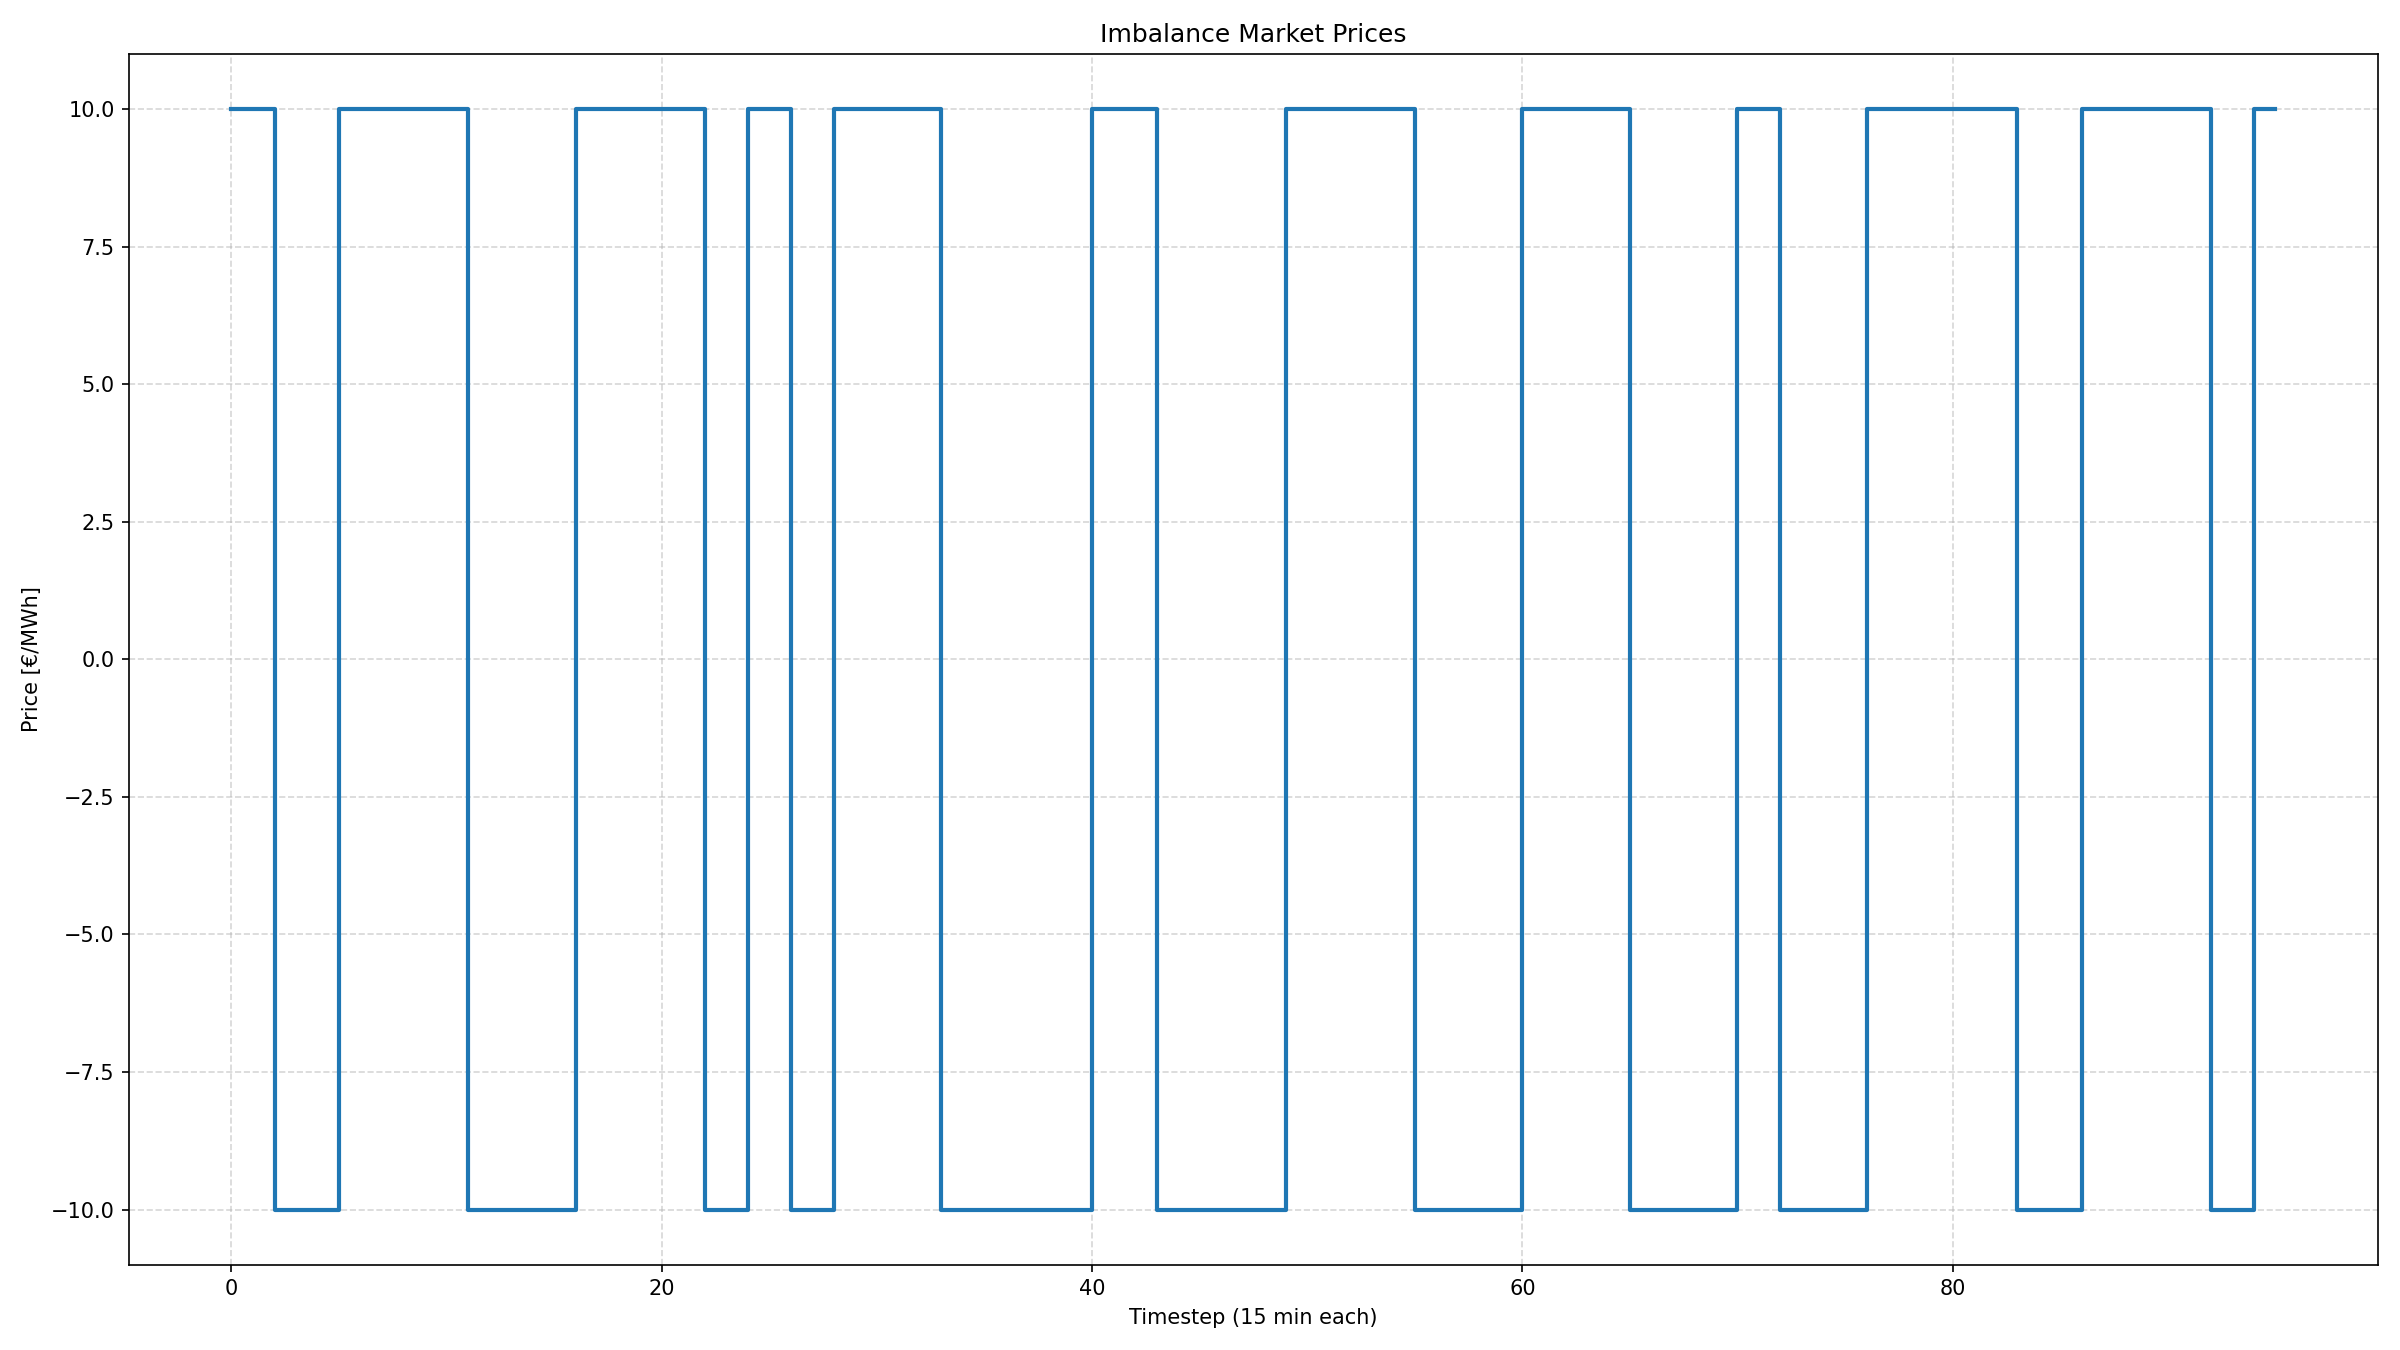
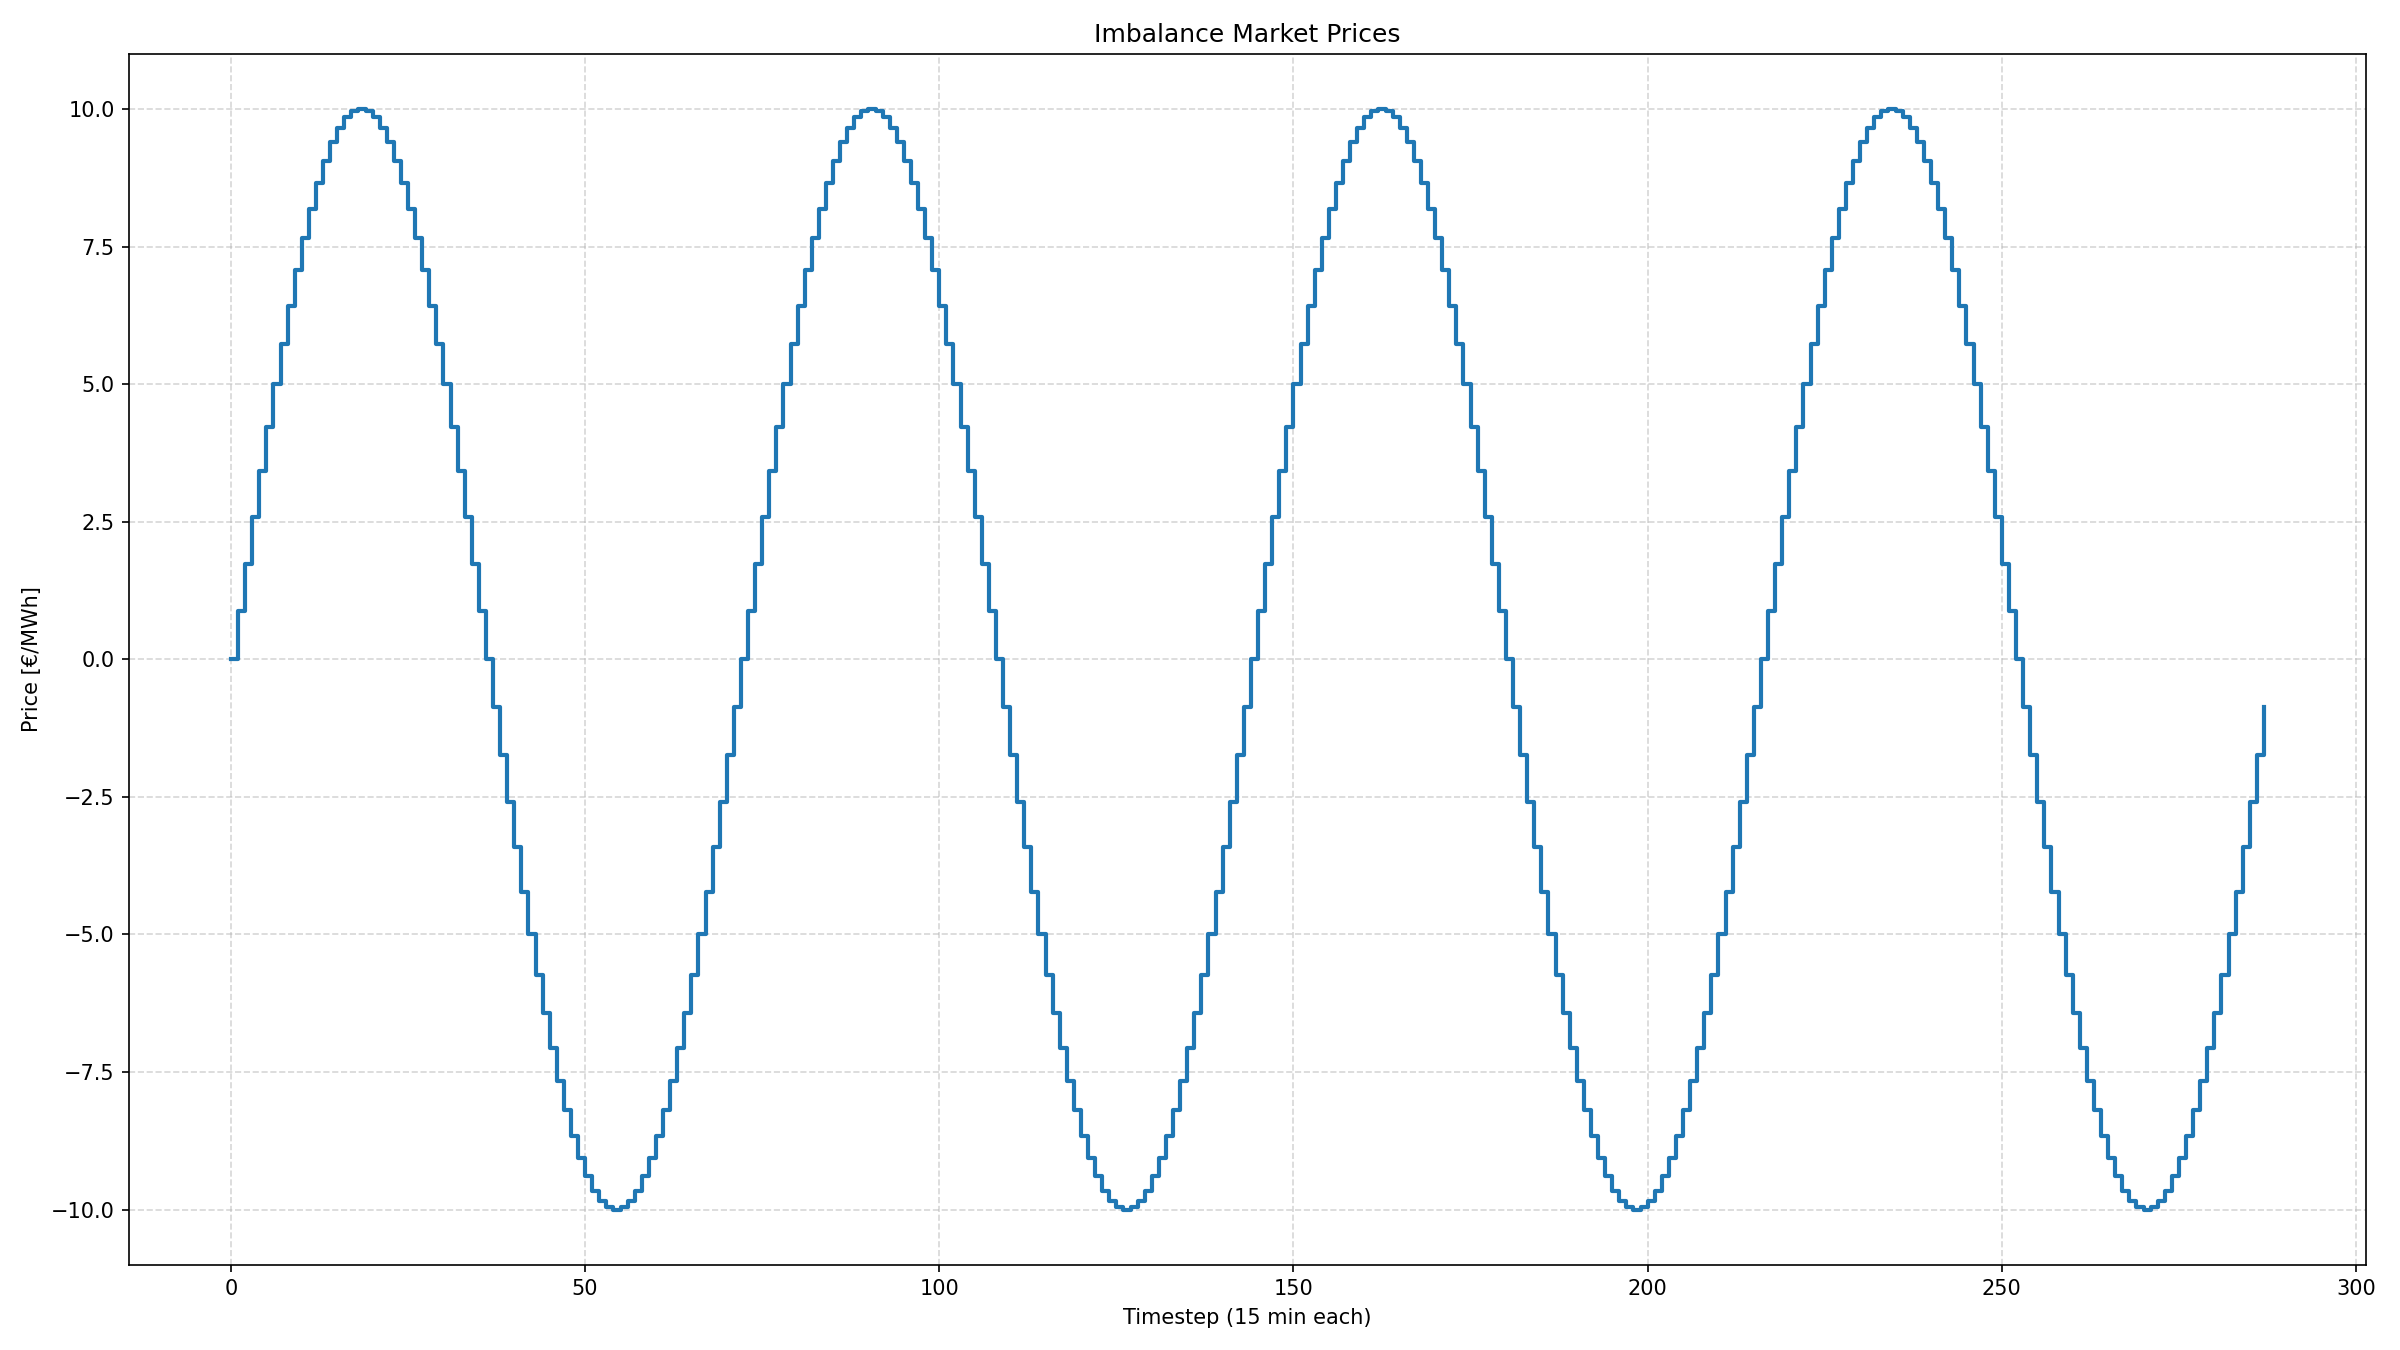
sinus

diff --git a/main.py b/main.py
@@ -6,10 +6,11 @@ from market import Market
 from plotter import plot_actions
 
 # Market and battery
-initial_soc = 5
-capacity = 10
+timestep = 5
+initial_soc = 15
+capacity = 30
 battery = Battery(soc=initial_soc, capacity=capacity, power=5)
-market = Market(pattern="square", duration_hours=24)
+market = Market(pattern="sinus", duration_hours=24, timestep_minutes=timestep)
 market.plot()
 
 # Helper functions
@@ -26,22 +27,21 @@ alpha = 0.05
 gamma = 0.95
 epsilon = 0.2
 n_episodes = 500
-timestep = 15
 
 def step(time_index, action):
     price = market.prices[time_index]
     reward = 0.0
-    if action == 0:  # discharge
+    if action == 0: # discharge
         delivered = -battery.discharge(duration=timestep)
         reward = price * delivered
-    else:            # charge
+    else: # charge
         stored = battery.charge(duration=timestep)
         reward = -price * stored
     next_index = time_index + 1
     return reward, next_index
 
-# --- Training ---
-for ep in range(n_episodes):
+# Training
+for _ in range(n_episodes):
     battery.reset(soc=initial_soc)
     t = 0
     s = state_to_index(battery.get_soc(), market.prices[t])
@@ -55,16 +55,16 @@ for ep in range(n_episodes):
 
         if t_next < market.num_steps:
             s_next = state_to_index(battery.get_soc(), market.prices[t_next])
-            td_target = r + gamma * np.max(Q[s_next])
+            td_target = r + gamma * np.max(Q[s_next]) - Q[s, a]
         else:
             s_next = None
-            td_target = r
+            td_target = r - Q[s, a]
 
         Q[s, a] += alpha * (td_target - Q[s, a])
         s = s_next if s_next is not None else s
         t = t_next
 
-print("Learned Q-table (shape):", Q.shape)
+print("Q-table shape:", Q.shape)
 
 # Test the agent
 battery.reset(soc=initial_soc)
@@ -74,94 +74,7 @@ for t in range(market.num_steps):
     a = int(np.argmax(Q[s]))
     r, _ = step(t, a)
     total_profit += r
-print(f"One-day greedy simulation profit: €{total_profit:.2f}, final {battery}")
+print(f"One-day simulation profit: €{total_profit:.2f}")
 
-
+# Plot resutls
 plot_actions(battery=battery, market=market, timestep=timestep, initial_soc=initial_soc)
-
-
-
-
-
-
-
-
-
-
-
-
-
-
-# # todo: plot history and compare with market prices
-# import matplotlib.pyplot as plt
-
-# history = battery.get_history()
-
-
-# # Reconstruct SOC timeline from battery.history
-# # battery.history entries are (soc_before, duration_min, action) where action: 1=charge,0=discharge
-# soc_history = []
-# time_steps = []
-# actions = []
-# dt = timestep  # minutes per timestep
-# current_time = 0
-# current_soc = initial_soc
-# for entry in history:
-#     soc_before, duration_min, action = entry
-#     # duration may be dt (15) per step; number of timesteps this entry represents
-#     steps = int(duration_min / dt) if duration_min >= dt else 1
-#     for s in range(steps):
-#         time_steps.append(current_time)
-#         soc_history.append(current_soc)
-#         actions.append(action)
-#         # update soc according to action
-#         if action == 1:
-#             # charge
-#             added = battery.power * (dt / 60)
-#             current_soc = min(battery.capacity, current_soc + added)
-#         else:
-#             # discharge
-#             removed = battery.power * (dt / 60)
-#             current_soc = max(0, current_soc - removed)
-#         current_time += 1
-
-# # If history is empty, fallback to a single point
-# if len(time_steps) == 0:
-#     time_steps = [0]
-#     soc_history = [battery.get_soc()]
-#     actions = [None]
-
-# # Convert market prices to align with time_steps (they are already 0..num_steps-1)
-# price_ts = market.prices[:len(time_steps)] if len(market.prices) >= len(time_steps) else np.pad(market.prices, (0, len(time_steps)-len(market.prices)), constant_values=(market.prices[-1] if len(market.prices)>0 else 0))
-
-# # Plot
-# fig, ax1 = plt.subplots(figsize=(14,6), dpi=150)
-# ax2 = ax1.twinx()
-
-# # Price as stepped line
-# ax1.step(range(len(price_ts)), price_ts, where='post', color='tab:blue', linewidth=2, label='Market price [€/kWh]')
-# ax1.set_ylabel('Price [€/kWh]', color='tab:blue')
-# ax1.tick_params(axis='y', labelcolor='tab:blue')
-
-# # SOC as line
-# ax2.plot(range(len(soc_history)), soc_history, color='tab:orange', marker='o', label='Battery SOC (kWh)')
-# ax2.set_ylabel('SOC (kWh)', color='tab:orange')
-# ax2.tick_params(axis='y', labelcolor='tab:orange')
-
-# # Mark actions: green up for charge, red down for discharge
-# for idx, act in enumerate(actions):
-#     if act is None:
-#         continue
-#     if act == 1:
-#         ax2.scatter(idx, soc_history[idx], color='green', marker='^', s=40, label='Charge' if idx==0 else "")
-#     else:
-#         ax2.scatter(idx, soc_history[idx], color='red', marker='v', s=40, label='Discharge' if idx==0 else "")
-
-# ax1.set_title('Market prices and Battery actions over time')
-# ax1.set_xlabel('Timestep (15 min)')
-# ax1.grid(True, linestyle='--', alpha=0.4)
-# fig.tight_layout()
-# plt.legend(loc='upper left')
-# plt.savefig('market_with_actions.png')
-# print('Saved market_with_actions.png')
-

diff --git a/market.py b/market.py
@@ -17,6 +17,8 @@ class Market:
     def _generate_prices(self):
         if self.pattern == "square":
             return self._generate_square_wave()
+        elif self.pattern == "sinus":
+            return self._generate_sinus_wave()
         else:
             raise ValueError(f"Unknown pattern type: {self.pattern}")
     
@@ -33,6 +35,13 @@ class Market:
                 i += 1
             toggle = self.high_price if toggle == self.low_price else self.low_price
         return np.array(prices)
+    
+    def _generate_sinus_wave(self):
+        x = np.linspace(0, 2 * np.pi * 4, self.num_steps, endpoint=False)
+        mid = (self.high_price + self.low_price) / 2
+        amplitude = (self.high_price - self.low_price) / 2
+        prices = mid + amplitude * np.sin(x)
+        return prices
     
     def plot(self):
         plt.figure(figsize=(16, 9), dpi=150)
